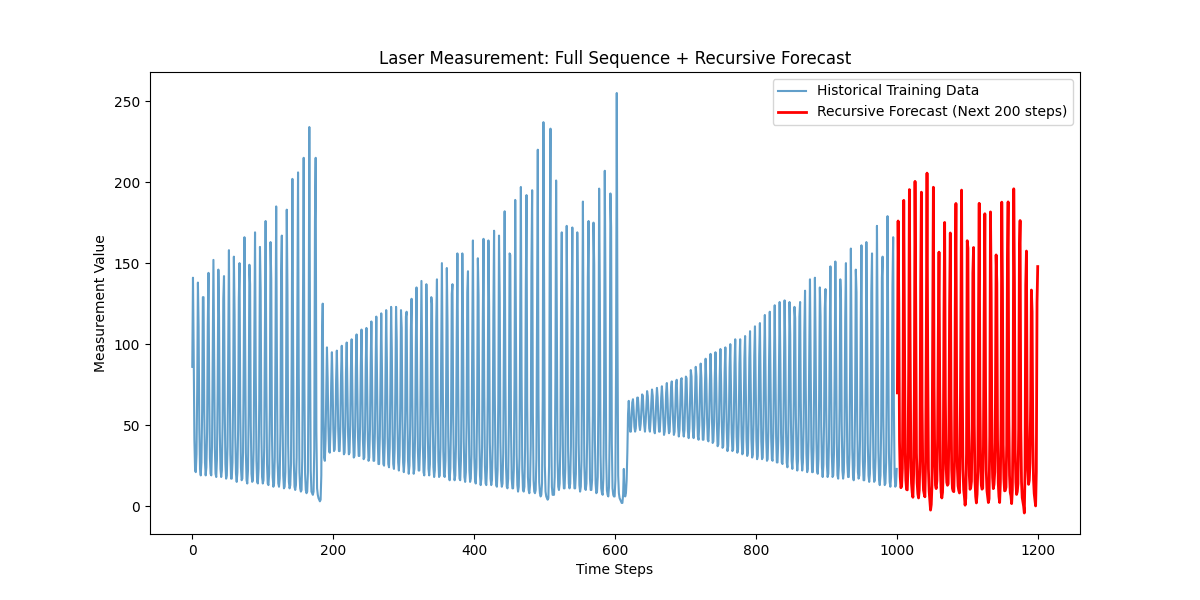
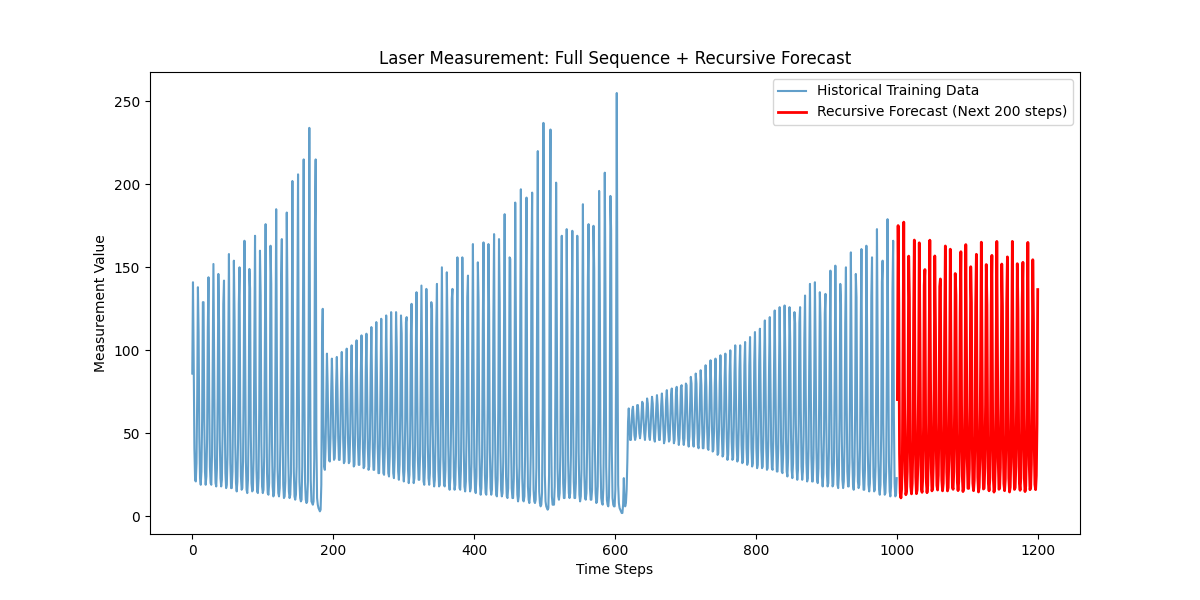
feature: add Prediction vs Actual

diff --git a/src/model_lstm.py b/src/model_lstm.py
@@ -92,7 +92,25 @@ plt.grid(True, linestyle='--', alpha=0.6)
 plt.savefig("output/loss_lstm.png")
 plt.show()
 
-# FORECAST 
+# PREDICTIONS VS ACTUAL (train + validation)
+split = int(len(X) * (1 - VAL_SPLIT))
+train_preds = scaler.inverse_transform(model.predict(X[:split], verbose=VERBOSE))
+val_preds = scaler.inverse_transform(model.predict(X[split:], verbose=VERBOSE))
+actual = scaler.inverse_transform(Y.reshape(-1, 1))
+
+plt.figure(figsize=(12, 5))
+plt.plot(actual, label="Actual", alpha=0.7)
+plt.plot(range(split), train_preds, label="Train pred", alpha=0.7)
+plt.plot(range(split, split + len(val_preds)), val_preds, label="Validation pred", alpha=0.8)
+plt.axvline(split, color="grey", linestyle="--", linewidth=1)
+plt.title("LSTM Predictions vs Actual")
+plt.xlabel("Index")
+plt.ylabel("Measurement Value")
+plt.legend()
+plt.savefig("output/pred_vs_actual_lstm.png")
+plt.show()
+
+# FORECAST
 plt.figure(figsize=(12, 6))
 plt.plot(range(len(X_raw)), X_raw, label="Historical Training Data", alpha=0.7)
 # 200 predictions start right after the last training point